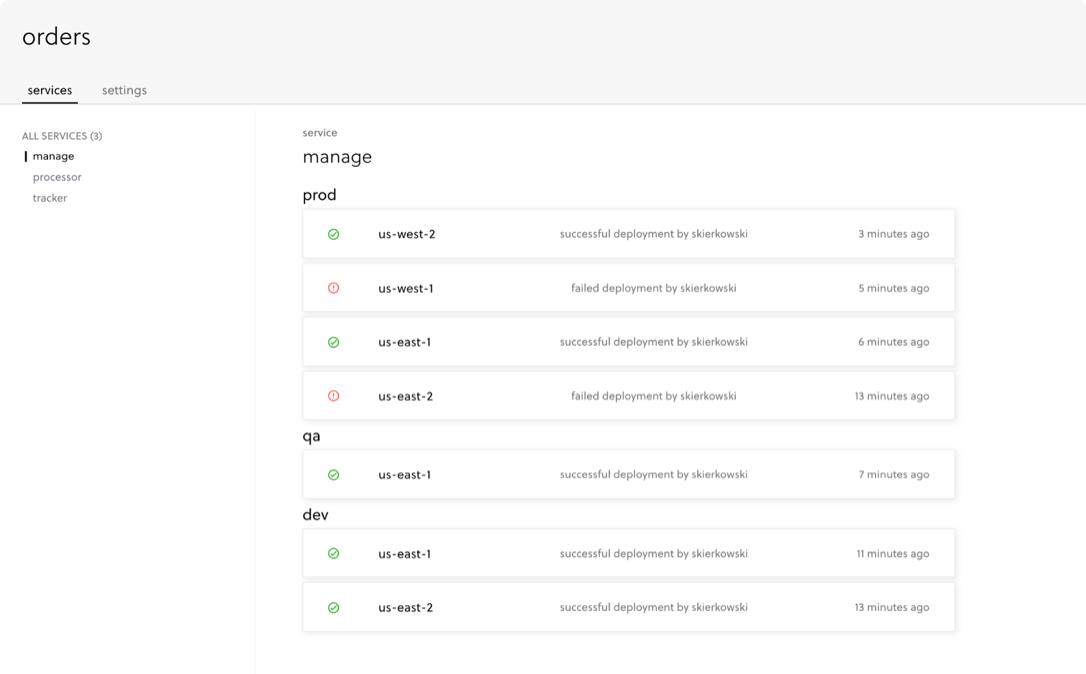
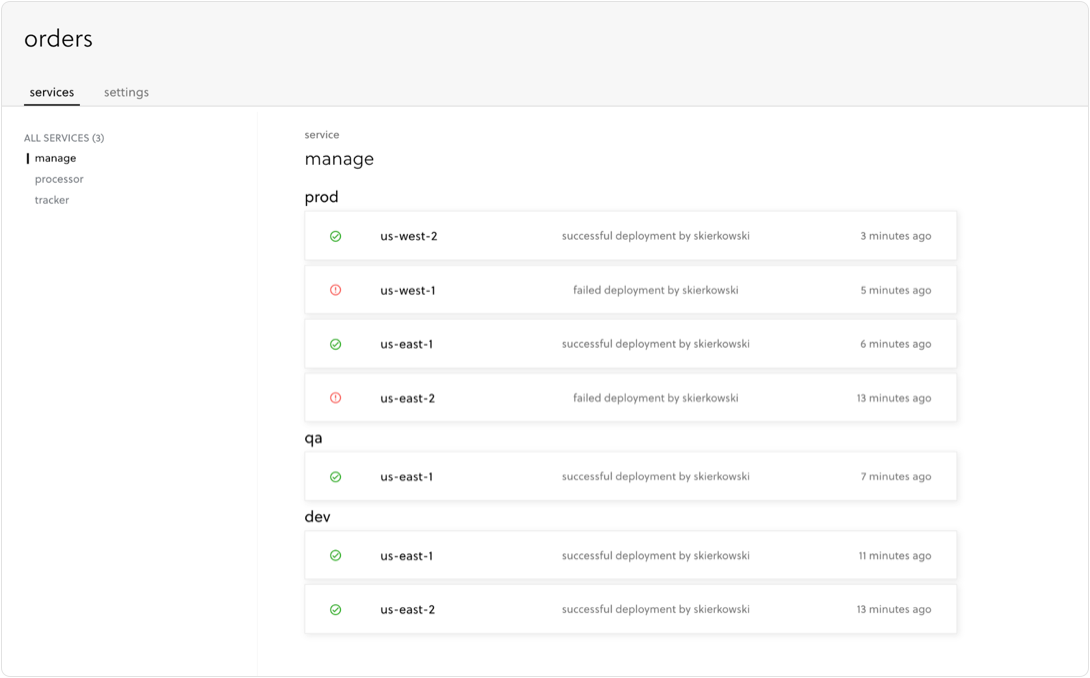
updated single-pane image

diff --git a/src/components/pages/dashboard/SinglePane/index.js b/src/components/pages/dashboard/SinglePane/index.js
@@ -1,8 +1,7 @@
 import React from 'react'
-import { Flex } from 'serverless-design-system'
+import { Flex, Image } from 'serverless-design-system'
 import singlePaneImage from 'src/assets/images/pages/dashboard/single-pane.png'
 import Content from './Content'
-import { ImageWithShadow as Image } from 'src/fragments'
 
 const SinglePane = props => (
   <Flex

diff --git a/src/components/FooterNewest/Terminal.js b/src/components/FooterNewest/Terminal.js
@@ -37,7 +37,7 @@ const TerminalTextContent = styled(Text.p)`
 const Terminal = () => {
   return (
     <Flex
-      flexDirection={['column', 'column', 'column']}
+      flexDirection={['column']}
       mb={[1, 1, 4]}
       alignItems={['auto', 'auto', 'center', 'center', 'auto']}
     >
